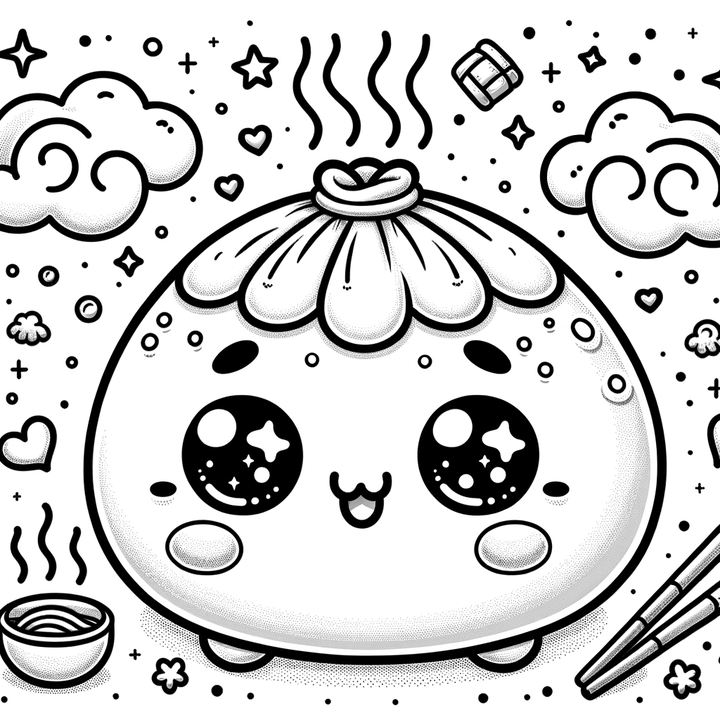
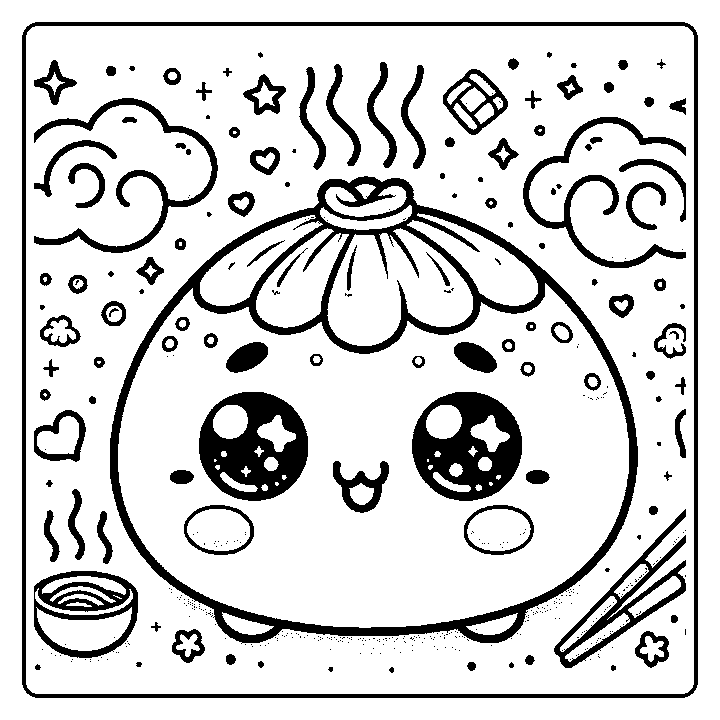
Color page: region-map fill fixes gray shading gaps; framed margin fixes edge cropping
Regions precomputed from binarized line art - taps fill whole spaces cleanly.

diff --git a/color.html b/color.html
@@ -107,12 +107,17 @@
       palette.appendChild(b);
     });
 
+    // Regions are computed once from the line art: every non-outline pixel
+    // belongs to exactly one region, so a tap always fills its whole space
+    // edge to edge - no half-filled shading, no leaks.
+    let labels = null;   // -2 = outline, >=0 = region id
     const img = new Image();
     img.src = 'images/color-dumpling.png';
     img.onload = () => {
       ctx.fillStyle = '#ffffff';
       ctx.fillRect(0, 0, W, H);
       ctx.drawImage(img, 0, 0, W, H);
+      buildRegions();
       snapshot();
     };
 
@@ -121,38 +126,46 @@
       if (history.length > 25) history.shift();
     }
 
-    // Flood fill: dark pixels are outlines and act as walls.
-    const LINE_LUMA = 90;
-    function floodFill(x, y, hex) {
+    function buildRegions() {
+      const d = ctx.getImageData(0, 0, W, H).data;
+      const isLine = (p) => (d[p * 4] + d[p * 4 + 1] + d[p * 4 + 2]) / 3 < 128;
+      labels = new Int32Array(W * H).fill(-1);
+      let next = 0;
+      const stack = [];
+      for (let s = 0; s < W * H; s++) {
+        if (labels[s] !== -1) continue;
+        if (isLine(s)) { labels[s] = -2; continue; }
+        labels[s] = next;
+        stack.push(s);
+        while (stack.length) {
+          const p = stack.pop();
+          const px = p % W, py = (p / W) | 0;
+          const tryN = (n) => {
+            if (labels[n] !== -1) return;
+            if (isLine(n)) { labels[n] = -2; return; }
+            labels[n] = next;
+            stack.push(n);
+          };
+          if (px > 0) tryN(p - 1);
+          if (px < W - 1) tryN(p + 1);
+          if (py > 0) tryN(p - W);
+          if (py < H - 1) tryN(p + W);
+        }
+        next++;
+      }
+    }
+
+    function fillRegion(x, y, hex) {
+      if (!labels) return false;
+      const lbl = labels[y * W + x];
+      if (lbl < 0) return false; // tapped an outline
+      const fr = parseInt(hex.slice(1, 3), 16), fg = parseInt(hex.slice(3, 5), 16), fb = parseInt(hex.slice(5, 7), 16);
       const imgData = ctx.getImageData(0, 0, W, H);
       const d = imgData.data;
-      const idx = (y * W + x) * 4;
-      const luma = (d[idx] + d[idx + 1] + d[idx + 2]) / 3;
-      if (luma < LINE_LUMA) return false; // clicked an outline
-
-      const fr = parseInt(hex.slice(1, 3), 16), fg = parseInt(hex.slice(3, 5), 16), fb = parseInt(hex.slice(5, 7), 16);
-      const tr = d[idx], tg = d[idx + 1], tb = d[idx + 2];
-      if (Math.abs(tr - fr) + Math.abs(tg - fg) + Math.abs(tb - fb) < 12) return false; // same color
-
-      const TOL = 60;
-      const match = (i) => {
-        const l = (d[i] + d[i + 1] + d[i + 2]) / 3;
-        if (l < LINE_LUMA) return false;
-        return Math.abs(d[i] - tr) + Math.abs(d[i + 1] - tg) + Math.abs(d[i + 2] - tb) <= TOL * 3;
-      };
-
-      const stack = [y * W + x];
-      const seen = new Uint8Array(W * H);
-      seen[y * W + x] = 1;
-      while (stack.length) {
-        const p = stack.pop();
+      for (let p = 0; p < W * H; p++) {
+        if (labels[p] !== lbl) continue;
         const i = p * 4;
         d[i] = fr; d[i + 1] = fg; d[i + 2] = fb; d[i + 3] = 255;
-        const px = p % W, py = (p / W) | 0;
-        if (px > 0 && !seen[p - 1] && match((p - 1) * 4)) { seen[p - 1] = 1; stack.push(p - 1); }
-        if (px < W - 1 && !seen[p + 1] && match((p + 1) * 4)) { seen[p + 1] = 1; stack.push(p + 1); }
-        if (py > 0 && !seen[p - W] && match((p - W) * 4)) { seen[p - W] = 1; stack.push(p - W); }
-        if (py < H - 1 && !seen[p + W] && match((p + W) * 4)) { seen[p + W] = 1; stack.push(p + W); }
       }
       ctx.putImageData(imgData, 0, 0);
       return true;
@@ -163,7 +176,7 @@
       const x = Math.floor((e.clientX - r.left) * (W / r.width));
       const y = Math.floor((e.clientY - r.top) * (H / r.height));
       if (x < 0 || y < 0 || x >= W || y >= H) return;
-      if (floodFill(x, y, current)) snapshot();
+      if (fillRegion(x, y, current)) snapshot();
     });
 
     document.getElementById('undoBtn').addEventListener('click', () => {